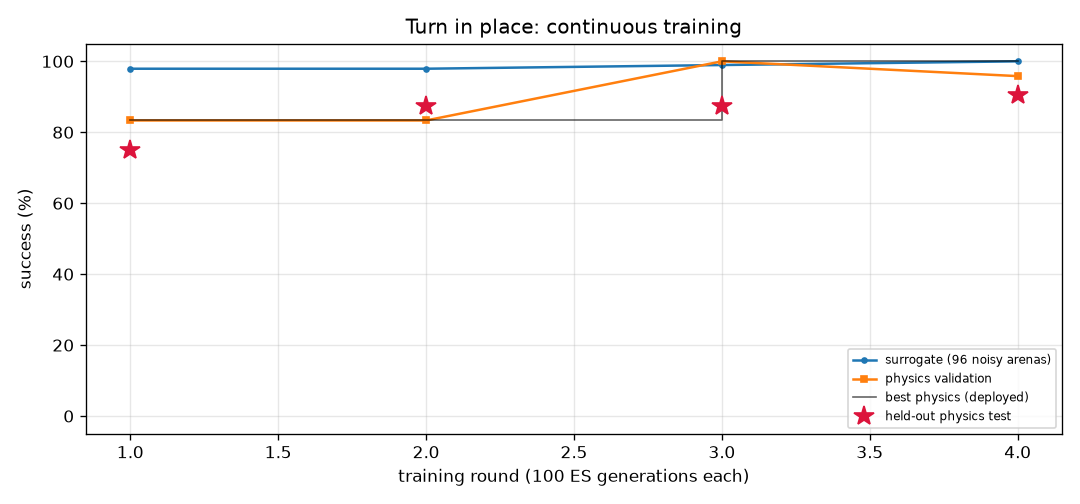
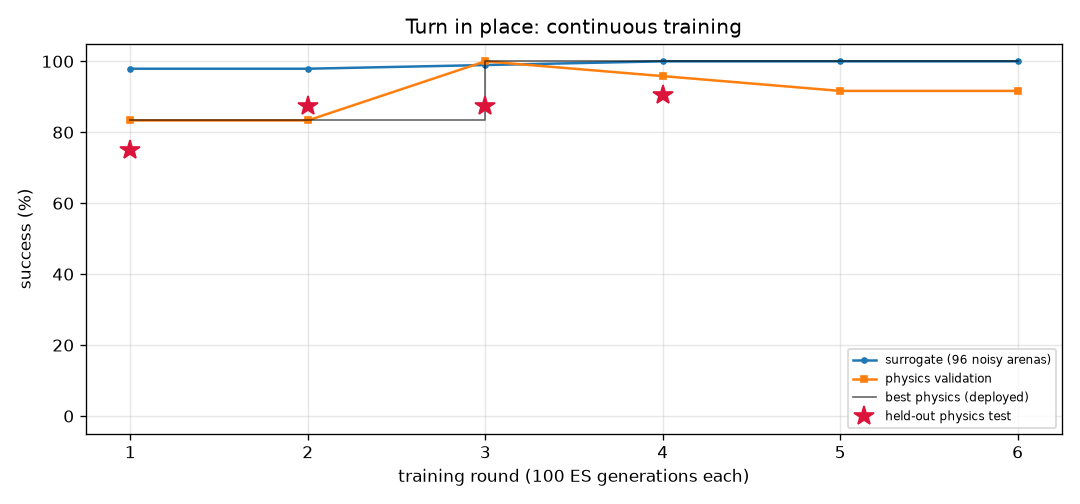
FlyLab: continuous training progress
- walk_forward: optimal, physics val 100% of 24, round 28
- turn: optimal, physics val 96% of 24, round 6
- goto: optimal, physics val 100% of 24, round 33
- odor_seek: optimal, physics val 100% of 24, round 61
- odor_avoid: optimal, physics val 96% of 24, round 202
- light_seek: optimal, physics val 100% of 24, round 205
- light_avoid: optimal, physics val 96% of 24, round 22

diff --git a/projects/09_flylab/training/TRAINING.md b/projects/09_flylab/training/TRAINING.md
@@ -1,15 +1,15 @@
 # FlyLab brains — continuous training log
 
-*Auto-generated by `train_brains.py`, last updated 2026-09-30T19:13:17.*
+*Auto-generated by `train_brains.py`, last updated 2026-09-30T19:35:01.*
 
 Every skill has its own brain and its own training process: surrogate ES rounds, physics validation in MuJoCo, keep-the-best selection, and a held-out physics test that is never used for selection. See each skill's report for its full round-by-round history. Mastery is progressive: passing a level (100% physics validation, >=95% surrogate) doubles the validation and test arena sets; a brain is **optimal** once it holds up at level 3 (>=95% of 24 validation arenas) AND scores >=90% on the 32 held-out test arenas. Test columns show 95% Wilson confidence intervals.
 
 | skill | rounds | ES generations | physics runs | surrogate | physics val | **physics test** | status |
 |---|---:|---:|---:|---:|---:|---:|---|
 | [Walk forward](walk_forward/REPORT.md) | 28 | 2800 | 430 | 99% | 100% of 24 | 100% of 32 (CI 89-100%) | **optimal** |
-| [Turn in place](turn/REPORT.md) | 4 | 400 | 182 | 100% | 96% of 24 | 91% of 32 (CI 76-97%) | **optimal** |
+| [Turn in place](turn/REPORT.md) | 6 | 600 | 230 | 100% | 96% of 24 | 91% of 32 (CI 76-97%) | **optimal** |
 | [Go to a location](goto/REPORT.md) | 33 | 3300 | 422 | 100% | 100% of 24 | 100% of 32 (CI 89-100%) | **optimal** |
 | [Find food by smell](odor_seek/REPORT.md) | 61 | 6100 | 574 | 100% | 100% of 24 | 100% of 32 (CI 89-100%) | **optimal** |
 | [Escape a bad smell](odor_avoid/REPORT.md) | 202 | 20200 | 1450 | 97% | 96% of 24 | 97% of 32 (CI 84-99%) | **optimal** |
 | [Walk toward light](light_seek/REPORT.md) | 205 | 20500 | 1544 | 100% | 100% of 24 | 97% of 32 (CI 84-99%) | **optimal** |
-| [Hide from light](light_avoid/REPORT.md) | 21 | 2100 | 616 | 99% | 96% of 24 | 97% of 32 (CI 84-99%) | **optimal** |
+| [Hide from light](light_avoid/REPORT.md) | 22 | 2200 | 672 | 99% | 96% of 24 | 100% of 32 (CI 89-100%) | **optimal** |

diff --git a/projects/09_flylab/training/light_avoid/REPORT.md b/projects/09_flylab/training/light_avoid/REPORT.md
@@ -1,17 +1,17 @@
 # Hide from light (`light_avoid`) — training report
 
-*Auto-generated by `train_brains.py`, last updated 2026-09-26T23:10:12.*
+*Auto-generated by `train_brains.py`, last updated 2026-09-30T19:35:01.*
 
 ![curve](curve.png)
 
 | | |
 |---|---|
-| rounds | 21 |
-| ES generations | 2100 |
-| physics runs | 616 |
+| rounds | 22 |
+| ES generations | 2200 |
+| physics runs | 672 |
 | status | **optimal** |
-| best brain | round 21: physics validation **96%** on 24 arenas, surrogate 99% |
-| held-out physics test | **97%** on 32 unseen arenas (95% CI 84%-99%) (errors: [11.2, 24.8, 25.0, 27.2, 26.8, 12.4, 13.9, 18.6, 19.7, 11.7, 13.6, 25.9, 26.6, 13.0, 25.5, 19.3, 23.7, 19.3, 23.0, 20.6, 25.7, 19.1, 20.9, 24.2, 13.6, 12.6, 23.4, 25.7, 21.3, 14.8, 24.2, 20.4]) |
+| best brain | round 22: physics validation **96%** on 24 arenas, surrogate 99% |
+| held-out physics test | **100%** on 32 unseen arenas (95% CI 89%-100%) (errors: [14.4, 32.1, 29.0, 31.4, 31.5, 13.8, 14.4, 28.9, 28.1, 13.2, 14.0, 31.5, 31.5, 12.5, 27.9, 29.2, 27.2, 27.9, 26.2, 30.6, 33.6, 23.2, 31.6, 28.3, 14.1, 13.7, 31.0, 29.9, 29.8, 13.1, 34.0, 29.8]) |
 
 Physics error per arena: mm gained away from source (> 6 without first approaching it = success).
 
@@ -38,3 +38,4 @@ Physics error per arena: mm gained away from source (> 6 without first approachi
 | 19 | 1 | 1900 | 0.051 | 98% | 100% | [34.1, 34.9, 34.3, 35.6, 36.6, 35.5] | 88% | new best |
 | 20 | 2 | 2000 | 0.025 | 98% | 100% | [29.3, 30.3, 27.7, 30.7, 29.9, 28.7, 27.9, 18.4, 26.7, 26.3, 27.5, 31.0] | 81% | new best |
 | 21 | 3 | 2100 | 0.025 | 98% | 100% | [22.2, 27.4, 27.0, 25.8, 27.8, 27.5, 25.6, 14.4, 23.1, 21.2, 22.6, 27.7, 9.0, 24.1, 27.2, 21.9, 13.8, 28.1, 27.7, 7.0, 25.1, 23.5, 25.5, 27.3] | 100% | new best |
+| 22 | 3 | 2200 | 0.025 | 99% | 96% | [31.4, 32.3, 32.6, 31.4, 29.1, 31.6, 33.3, 14.5, 26.9, 25.0, 27.5, 28.8, 14.3, 29.7, 32.5, 28.5, 14.2, 30.1, 32.8, 14.4, 28.4, 28.9, 32.7, 28.9] | 100% | new best |

diff --git a/projects/09_flylab/training/turn/REPORT.md b/projects/09_flylab/training/turn/REPORT.md
@@ -1,14 +1,14 @@
 # Turn in place (`turn`) — training report
 
-*Auto-generated by `train_brains.py`, last updated 2026-09-30T19:10:29.*
+*Auto-generated by `train_brains.py`, last updated 2026-09-30T19:26:51.*
 
 ![curve](curve.png)
 
 | | |
 |---|---|
-| rounds | 4 |
-| ES generations | 400 |
-| physics runs | 182 |
+| rounds | 6 |
+| ES generations | 600 |
+| physics runs | 230 |
 | status | **optimal** |
 | best brain | round 4: physics validation **96%** on 24 arenas, surrogate 100% |
 | held-out physics test | **91%** on 32 unseen arenas (95% CI 76%-97%) (errors: [5.2, 3.0, 11.6, 2.7, 2.0, 1.4, 0.0, 1.1, 0.6, 2.9, 0.8, 1.1, 0.6, 2.0, 1.0, 2.2, 0.7, 3.4, 0.5, 3.9, 0.5, 2.0, 1.9, 0.7, 4.0, 4.1, 6.1, 4.2, 11.1, 3.3, 3.1, 0.5]) |
@@ -21,3 +21,5 @@ Physics error per arena: deg from target heading (< 20 = success).
 | 2 | 1 | 200 | 0.025 | 98% | 83% | [5.4, 2.2, 0.0, 1.1, 11.1, 0.2] | 88% | new best |
 | 3 | 1 | 300 | 0.025 | 99% | 100% | [4.3, 7.2, 7.2, 2.0, 2.6, 1.9] | 88% | new best |
 | 4 | 3 | 400 | 0.025 | 100% | 96% | [1.8, 5.8, 1.2, 2.2, 13.3, 4.1, 4.5, 5.7, 4.6, 10.7, 3.3, 0.5, 2.3, 3.1, 2.8, 0.3, 0.9, 0.6, 0.0, 0.3, 2.1, 0.0, 6.2, 1.3] | 91% | new best |
+| 5 | 3 | 500 | 0.024 | 100% | 92% | [5.8, 0.4, 0.3, 1.2, 0.4, 0.8, 8.7, 9.1, 8.4, 2.6, 6.0, 3.5, 1.2, 0.6, 5.4, 2.1, 3.2, 2.5, 2.8, 3.0, 0.2, 2.6, 9.3, 4.2] |  |  |
+| 6 | 3 | 600 | 0.024 | 100% | 92% | [3.7, 12.1, 14.9, 3.2, 0.9, 118.1, 9.6, 0.4, 8.8, 5.4, 5.7, 7.7, 4.1, 3.6, 5.4, 6.0, 7.4, 15.3, 5.8, 6.4, 0.8, 6.7, 9.3, 8.7] |  |  |
